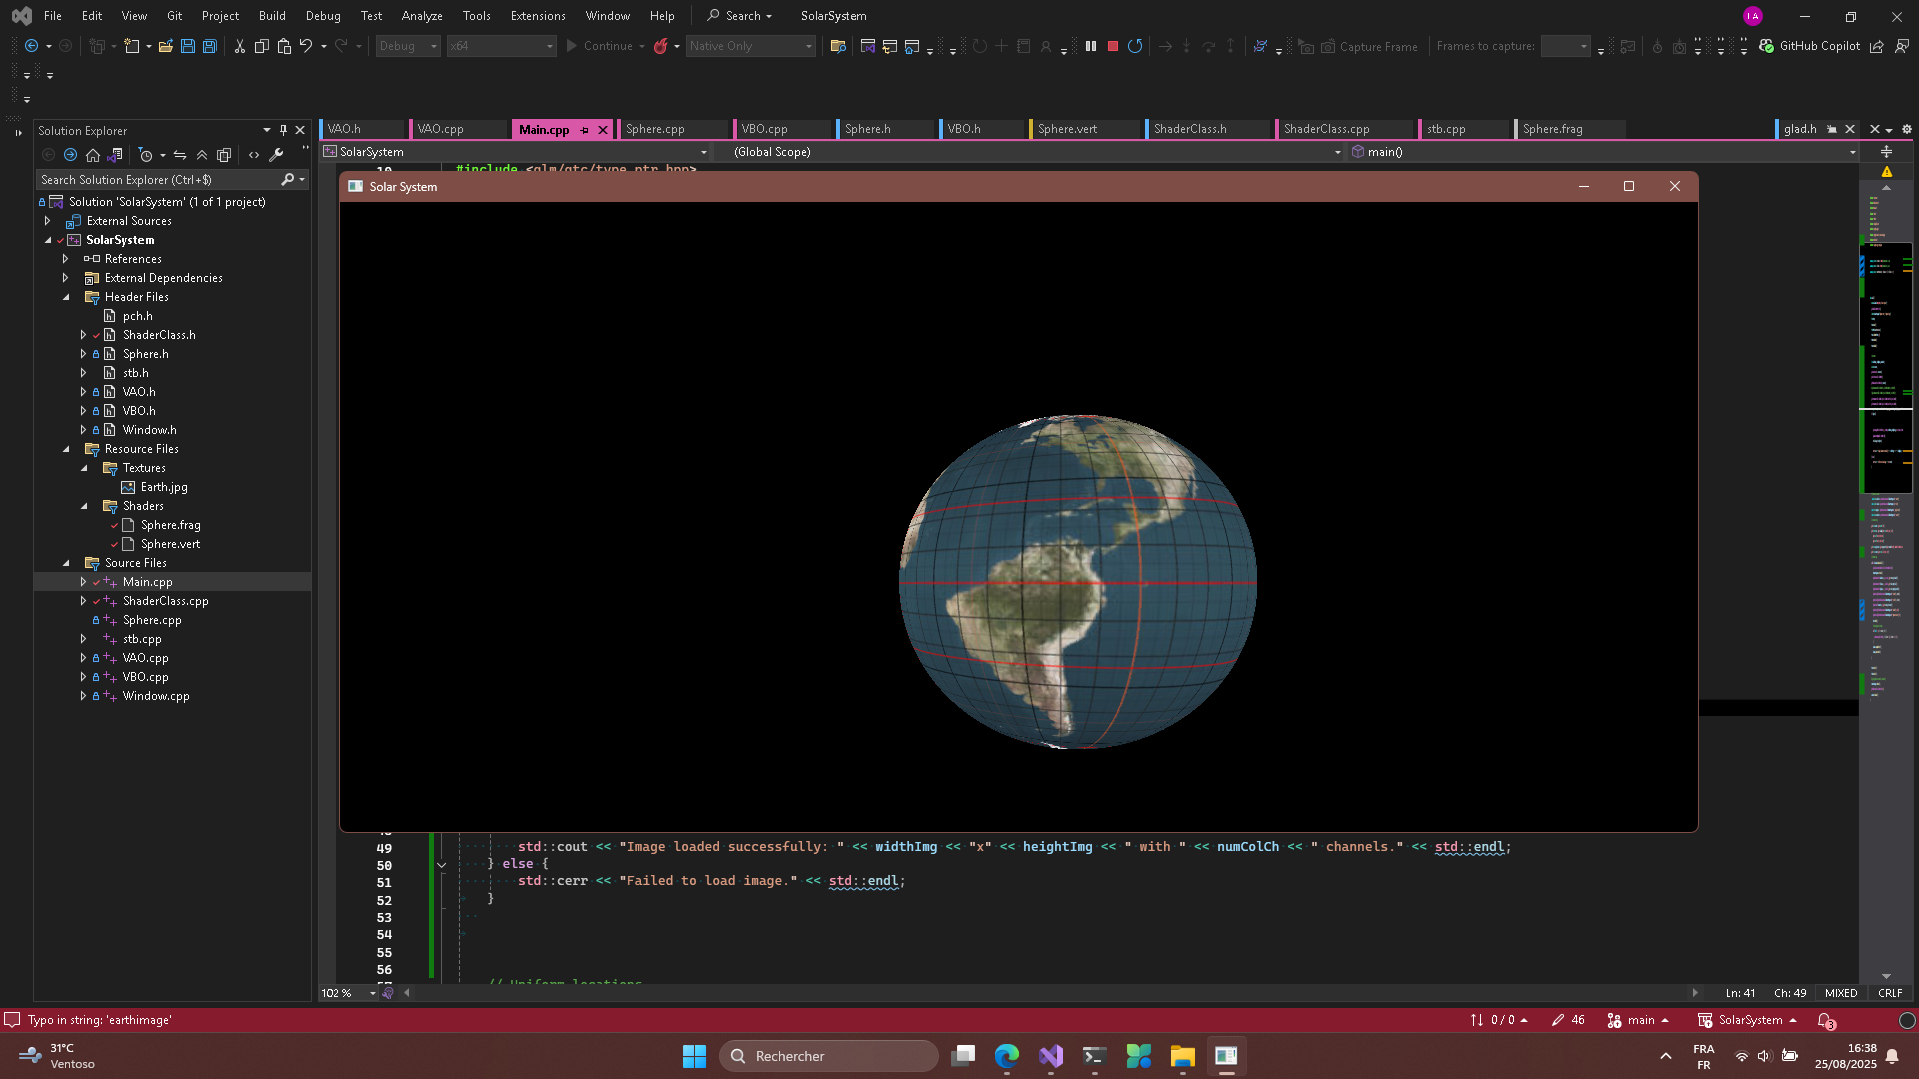
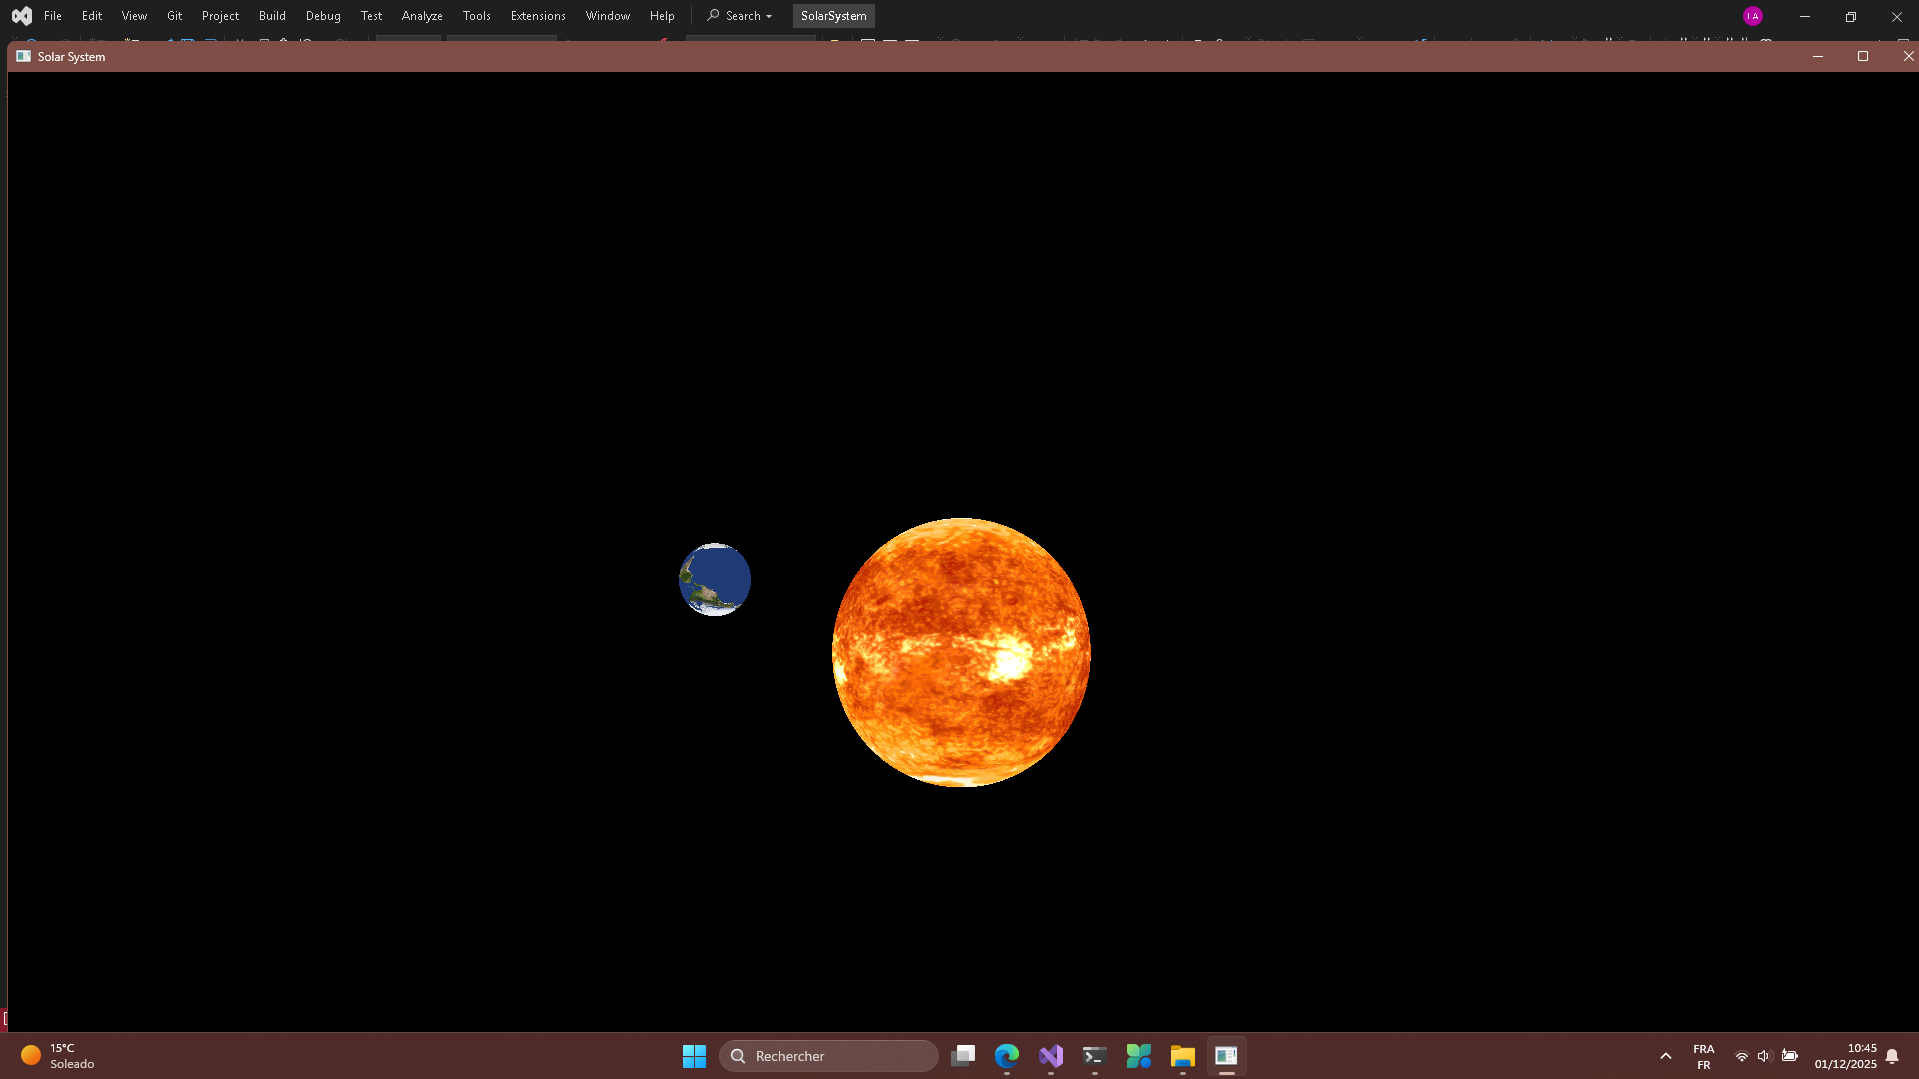
added Sun and fixed Error LNK2001: unresolved external symbol for the globalvertices static variable

diff --git a/src/Main.cpp b/src/Main.cpp
@@ -1,27 +1,42 @@
 #include <iostream>
 #include <stdexcept>
 #include <vector>
-#include <cmath>       // for sin, cos
-#include <glad/glad.h>
-#include <GLFW/glfw3.h>
-#include <glm/fwd.hpp>
-#include <glm/ext/matrix_clip_space.hpp>
-#include <glm/ext/matrix_transform.hpp>
-#include <glm/gtc/type_ptr.hpp>
 
-#include "Camera.h"
-#include "ShaderClass.h"
-#include "VAO.h"
-#include"Window.h"
-#include "VBO.h"
-#include"Constants.h"
 #include "Earth.h"
-#include "InputManager.h"
-#include "Texture.h"
-#include"Mesh.h"
-#include "Planet.h"
+#include"pch.h"
+#include "Utilities.h"
+
+
+/*
+
+void  GenerateVertices(std::vector<float>& vertices)
+{
+    constexpr auto PI = 3.14159265358979323846f;
+    int stacks = 1500;
+    int slices = 1500;
+
+
+    for (int i = 0; i <= stacks; ++i)
+    {
+        float theta = PI * i / stacks;
+        float y = cos(theta);
+        float r = sin(theta);
+
+        for (int j = 0; j <= slices; ++j)
+        {
+            float phi = 2 * PI * j / slices;
+            float x = r * cos(phi);
+            float z = r * sin(phi);
+            vertices.push_back(x);
+            vertices.push_back(y);
+            vertices.push_back(z);
+        }
+    }
+}
+
+*/
 auto model = glm::mat4(1.0f);
-auto center = glm::vec3(1.0f, 1.0f, 1.0f);
+auto center = glm::vec3(3.0f, 3.0f, 3.0f);
 glm::vec3 Cen = glm::vec3(3.0f, 1.0f, 1.0f);
 auto view = glm::lookAt(
     glm::vec3(1.0f, 1.0f, 8.0f),
@@ -29,34 +44,34 @@ auto view = glm::lookAt(
     glm::vec3(0.0f, 1.0f, 0.0f)
 );
 glm::mat4 projection = glm::perspective(glm::radians(45.0f), 1000.0f / 500.0f, 0.1f, 100.0f);
+std::vector<float> Mesh::globalVertices = {};
 
 
-int min()
+int main()
 {
-    std::vector<float> Vertices;
-    Planet::GenerateVertices(Vertices);
+	GenerateVertices(Mesh::globalVertices);
     auto window = std::make_unique<Window>(2800, 1000, "Solar System");
     window->Config();
-	
      auto camera = std::make_shared<Camera>(1000.0f, 500.0f, glm::vec3(1.0f, 0.0f, 6.0f));
 	InputManager input_manager(camera);
     Shader shaderProgram("ressources/Shaders/Sphere.vert", "ressources/Shaders/Sphere.frag");
-    Mesh sphere(Vertices, "ressources/Earth.jpg");
-    Mesh earth(Vertices, "ressources/mercury.jpg");
+    Earth earth = Earth();
+    Sun sun = Sun();
     while (!window->shouldClose()) {
         glClear(GL_COLOR_BUFFER_BIT | GL_DEPTH_BUFFER_BIT);
-      
         camera->Matrix(45.0f, 0.1f, 100.0f, "view", "projection");
         input_manager.Setup(window->getWindow());
-        sphere.Draw(shaderProgram,model, center);
-        earth.Draw( shaderProgram,model, Cen);
+        earth.mesh->Draw(shaderProgram, earth.model, earth.center);
+		sun.mesh->Draw(shaderProgram, sun.model, sun.center);
+        earth.Move(glm::vec3(0.0f,1.0f,0.0f));
+		sun.Move(glm::vec3(0.0f, 2.0f, 0.0f));
+     
        // Earth* earth_planet = new Earth(glm::vec3(1.0f, 1.0f, 1.0f));
       //  earth_planet->Draw();
         window->swapBuffers();
         window->poolEvents();
     }
-    sphere.Delete();
-	earth.Delete();
+    
     shaderProgram.Delete();
     
     return 0;

diff --git a/Include/Utilities.h b/Include/Utilities.h
@@ -1,53 +1,64 @@
-#include <cmath>
+#pragma once
+
+#include <cmath>
 #include <vector>
 #include <stdexcept>
 #include <glm/ext/scalar_constants.hpp>
 
-struct Utilities {
-	/*
-	static void GenerateVertices(std::vector<float>& vertices, int stacks, int slices, float radius) {
-		if (radius == 0.0f)
-			throw std::runtime_error("Radius cannot be zero.");
 
-		for (int i = 0; i <= stacks; ++i) {
-			float theta = glm::pi<float>() * i / stacks;
-			float y = cos(theta);
-			float r = sin(theta);
+		/*
+		static void GenerateVertices(std::vector<float>& vertices, int stacks, int slices, float radius) {
+			if (radius == 0.0f)
+				throw std::runtime_error("Radius cannot be zero.");
 
-			for (int j = 0; j < slices; ++j) {
-				float phi = 2 * glm::pi<float>() * j / slices;
-				float x = r * cos(phi);
-				float z = r * sin(phi);
+			for (int i = 0; i <= stacks; ++i) {
+				float theta = glm::pi<float>() * i / stacks;
+				float y = cos(theta);
+				float r = sin(theta);
 
-				vertices.push_back(x * radius);
-				vertices.push_back(y * radius);
-				vertices.push_back(z * radius);
+				for (int j = 0; j < slices; ++j) {
+					float phi = 2 * glm::pi<float>() * j / slices;
+					float x = r * cos(phi);
+					float z = r * sin(phi);
+
+					vertices.push_back(x * radius);
+					vertices.push_back(y * radius);
+					vertices.push_back(z * radius);
+				}
 			}
 		}
-	}
-	*/
-	static	void GenerateVertices(std::vector<float>& vertices)
-	{
-		constexpr auto PI = 3.14159265358979323846f;
-		int stacks = 1500;
-		int slices = 1500;
+		*/
 
-
-		for (int i = 0; i <= stacks; ++i)
+		static	void GenerateVertices(std::vector<float>& vertices)
 		{
-			float theta = PI * i / stacks;
-			float y = cos(theta);
-			float r = sin(theta);
+			constexpr auto PI = 3.14159265358979323846f;
+			int stacks = 1500;
+			int slices = 1500;
 
-			for (int j = 0; j <= slices; ++j)
+
+			for (int i = 0; i <= stacks; ++i)
 			{
-				float phi = 2 * PI * j / slices;
-				float x = r * cos(phi);
-				float z = r * sin(phi);
-				vertices.push_back(x);
-				vertices.push_back(y);
-				vertices.push_back(z);
+				float theta = PI * i / stacks;
+				float y = cos(theta);
+				float r = sin(theta);
+
+				for (int j = 0; j <= slices; ++j)
+				{
+					float phi = 2 * PI * j / slices;
+					float x = r * cos(phi);
+					float z = r * sin(phi);
+					vertices.push_back(x);
+					vertices.push_back(y);
+					vertices.push_back(z);
+				}
 			}
 		}
-	}
-};
+
+
+		
+
+
+	
+
+
+

diff --git a/src/InputManager.cpp b/src/InputManager.cpp
@@ -1,6 +1,7 @@
 #include "InputManager.h"
 
 #include <iso646.h>
+#include <algorithm>
 #include <glm/ext/matrix_transform.hpp>
 
 #include <glm/ext/quaternion_trigonometric.hpp>
@@ -23,7 +24,8 @@ void InputManager::Setup(GLFWwindow* window)
 {
 	if (glfwGetKey(window, GLFW_KEY_Z) == GLFW_PRESS)
 	{
-		camera->Position += camera->Speed * camera->Orientation;
+		camera->Position.z = std::max<float>(camera->Position.z, 0);
+		camera->Position.z -= camera->Speed;
 	}
 	if (glfwGetKey(window, GLFW_KEY_A) == GLFW_PRESS)
 	{
@@ -31,7 +33,7 @@ void InputManager::Setup(GLFWwindow* window)
 	}
 	if (glfwGetKey(window, GLFW_KEY_S) == GLFW_PRESS)
 	{
-		camera->Position += camera->Speed * -camera->Orientation;
+		camera->Position.z += camera->Speed;
 	}
 	if (glfwGetKey(window, GLFW_KEY_D) == GLFW_PRESS)
 	{

diff --git a/Include/Earth.h b/Include/Earth.h
@@ -1,17 +1,25 @@
 #pragma once
+#define GLM_ENABLE_EXPERIMENTAL 
+#include <glm/gtx/transform.hpp>
 #include"pch.h"
-#include "Planet.h"
-class Mesh;//forward declaration to avoid circular dependency and reduce compilation time
 
 
-class Earth :public Planet
+class Earth
 {
 public:
-	void Move() override;
-	explicit Earth(glm::vec3 c);
-	void Draw() override;
-
-
+	
+	float radius;
+	glm::vec3 center;
+	glm::mat4 model;
+	std::shared_ptr<Mesh> mesh;
+	explicit Earth(float r = 0.5f, glm::vec3 c = glm::vec3(8.0f, 2.0f, 1.0f))
+		:radius(r), center(c), model(glm::mat4(1.0f))
+	{
+		mesh = std::make_shared<Mesh>(Mesh::globalVertices, "ressources/Earth.jpg");
+		model = glm::scale(model, glm::vec3(radius, radius, radius));
+		
+	}
+	void Move(glm::vec3 pivot);
 	
 	
 };

diff --git a/Include/Sun.h b/Include/Sun.h
@@ -1,7 +1,28 @@
 #pragma once
-#include "Planet.h"
+#define GLM_ENABLE_EXPERIMENTAL 
+#include <glm/vec3.hpp>
+#include <glm/gtx/transform.hpp>
+#include "pch.h"
+#include "Utilities.h"
 
-class Sun : public Planet
+
+class Sun 
 {
+public:
+	float radius;
+	glm::vec3 center;
+	glm::mat4 model;
+	std::shared_ptr<Mesh> mesh;
+	explicit Sun(float r = 1.5f, glm::vec3 c = glm::vec3(0.0f, 0.0f, 1.0f))
+		:radius(r), center(c), model(glm::mat4(1.0f))
+	{
+		mesh = std::make_shared<Mesh>(Mesh::globalVertices, "ressources/Sun.jpg");
+		model = glm::scale(model, glm::vec3(radius, radius, radius));
+
+	}
+	void Move(glm::vec3 pivot);
+
 };
+
+
 

diff --git a/Include/pch.h b/Include/pch.h
@@ -5,4 +5,20 @@
 #include <glm/vec3.hpp>
 #include <glm/glm.hpp>
 #include"ShaderClass.h"
+#include <vector>
+#include <cmath>       // for sin, cos
+#include <glad/glad.h>
+#include <GLFW/glfw3.h>
+#include <glm/fwd.hpp>
+#include <glm/ext/matrix_clip_space.hpp>
+#include <glm/ext/matrix_transform.hpp>
+#include <glm/gtc/type_ptr.hpp>
+#include "Camera.h"
+#include "ShaderClass.h"
+#include "VAO.h"
+#include"Window.h"
+#include "VBO.h"
+#include "InputManager.h"
+#include "Texture.h"
 #include"Mesh.h"
+#include "Sun.h"

diff --git a/src/Earth.cpp b/src/Earth.cpp
@@ -1,18 +1,11 @@
 #include "Earth.h"
 
-void Earth::Move()
-{
-}
 
-Earth::Earth(glm::vec3 c)
-{
-	radius = 6371.0f;
-	
-	center = c;
-	radius = 6371.0f;
-}
+//Shader Utilities::globalShader = Shader("ressources/Shaders/Sphere.vert", "ressources/Shaders/Sphere.frag");
 
-void Earth::Draw()
-{
 
+void Earth::Move(glm::vec3 pivot)
+{
+	if (pivot==center) return;
+	model = glm::rotate(model, glm::radians(1.0f), pivot);
 }

diff --git a/Include/Mesh.h b/Include/Mesh.h
@@ -83,7 +83,7 @@ class Mesh {
          * the Mesh can no longer be drawn.
          */
         void Delete();
-
+		static std::vector<float> globalVertices;
     private:
         /// Vertex Array Object (stores attribute state).
         std::unique_ptr<VAO> vao;

diff --git a/src/Sun.cpp b/src/Sun.cpp
@@ -1,1 +1,8 @@
-
+#include"Sun.h"
+
+
+void Sun::Move(glm::vec3 pivot)
+{
+	if (pivot == center) return;
+	
+}

diff --git a/Include/Venus.h b/Include/Venus.h
@@ -1,7 +1,6 @@
 #pragma once
-#include "Planet.h"
-class Venus :
-    public Planet
+class Venus 
+    
 {
 };
 
